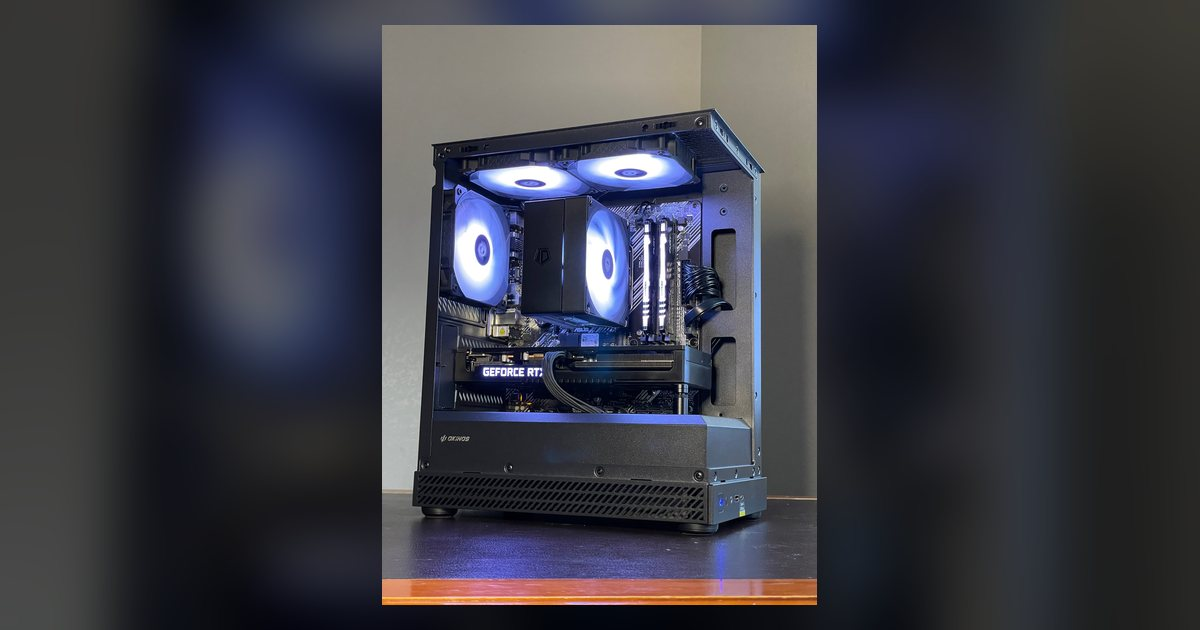
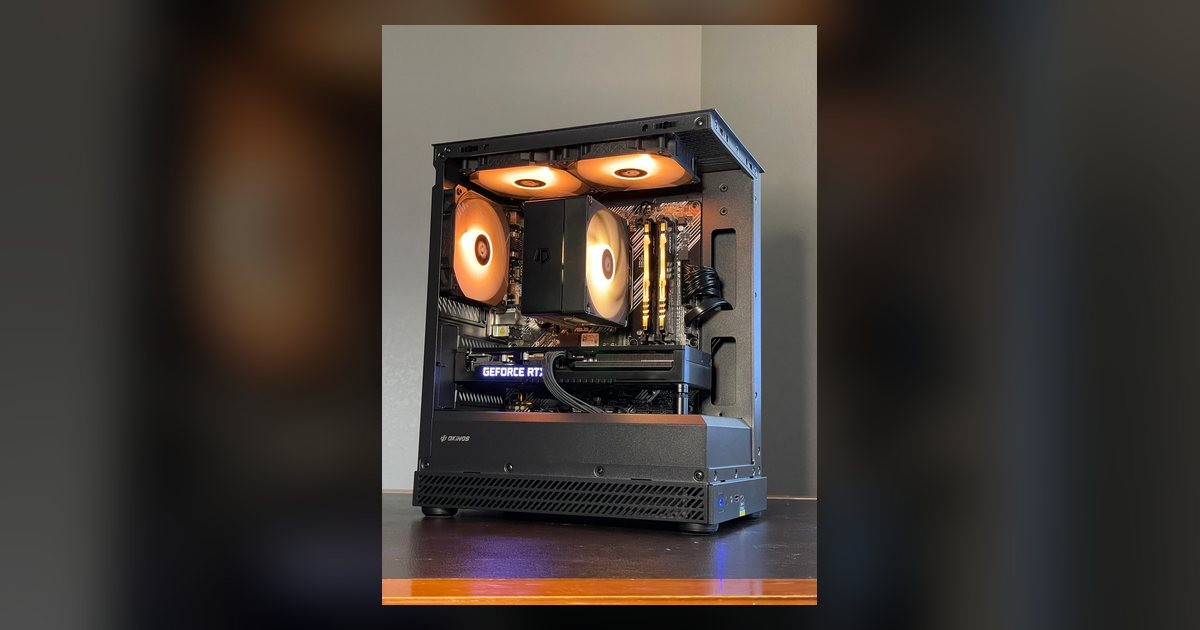
Update generated site files (automatic)

Changed region(s): [[0.1233, 0.0, 0.8325, 0.6333], [0.3392, 0.8143, 0.5858, 0.9651], [0.37, 0.6333, 0.5858, 0.6937]]

diff --git a/pc-nov26-02.html b/pc-nov26-02.html
@@ -37,10 +37,10 @@
   "name": "Ryzen 7 5700G / RTX 3070",
   "url": "https://pcman369.github.io/Jacob-Skrove-PCs/pc-nov26-02.html",
   "image": [
-    "https://pcman369.github.io/Jacob-Skrove-PCs/images/img0668.jpeg",
+    "https://pcman369.github.io/Jacob-Skrove-PCs/images/img0667.jpeg",
+    "https://pcman369.github.io/Jacob-Skrove-PCs/images/img0665.jpeg",
     "https://pcman369.github.io/Jacob-Skrove-PCs/images/img0666.jpeg",
-    "https://pcman369.github.io/Jacob-Skrove-PCs/images/img0665-1.jpeg",
-    "https://pcman369.github.io/Jacob-Skrove-PCs/images/img0667.jpeg"
+    "https://pcman369.github.io/Jacob-Skrove-PCs/images/img0668.jpeg"
   ],
   "description": "Capable gaming PC ready for 1440p and 1080p.",
   "offers": {

diff --git a/js/data/builds.js b/js/data/builds.js
@@ -76,17 +76,17 @@ const builds = [
     },
     "media": {
       "images": [
-        "images/img0668.jpeg",
-        "images/img0666.jpeg",
-        "images/img0665-1.jpeg",
         "images/img0667.jpeg",
+        "images/img0665.jpeg",
+        "images/img0666.jpeg",
+        "images/img0668.jpeg",
         "images/img0670.jpg",
         "images/img0669.jpeg",
         "images/img0671.jpg"
       ],
       "videos": []
     },
-    "condition": "Good condition Everything is used except for the case and CPU cooler, which are new.",
+    "condition": "Good condition. Everything is used except for the case and CPU cooler, which are new.",
     "testingNotes": "",
     "listedDate": "2026-11-23",
     "notes": ""

diff --git a/js/data/gallery.js b/js/data/gallery.js
@@ -15,19 +15,19 @@
 
 const currentBuilds = [
   {
-    "src": "images/img0668.jpeg",
+    "src": "images/img0667.jpeg",
     "alt": "Ryzen 7 5700G / RTX 3070, photo 1"
   },
   {
-    "src": "images/img0666.jpeg",
+    "src": "images/img0665.jpeg",
     "alt": "Ryzen 7 5700G / RTX 3070, photo 2"
   },
   {
-    "src": "images/img0665-1.jpeg",
+    "src": "images/img0666.jpeg",
     "alt": "Ryzen 7 5700G / RTX 3070, photo 3"
   },
   {
-    "src": "images/img0667.jpeg",
+    "src": "images/img0668.jpeg",
     "alt": "Ryzen 7 5700G / RTX 3070, photo 4"
   },
   {
